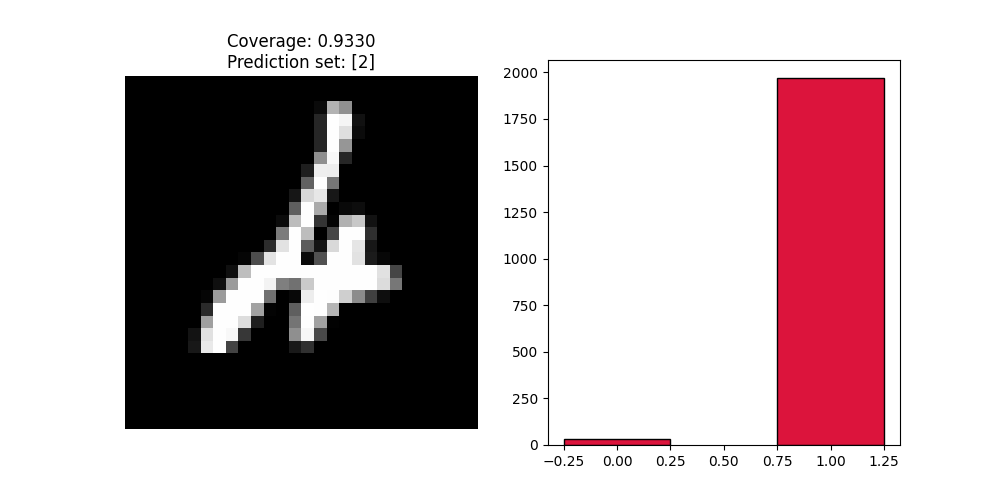
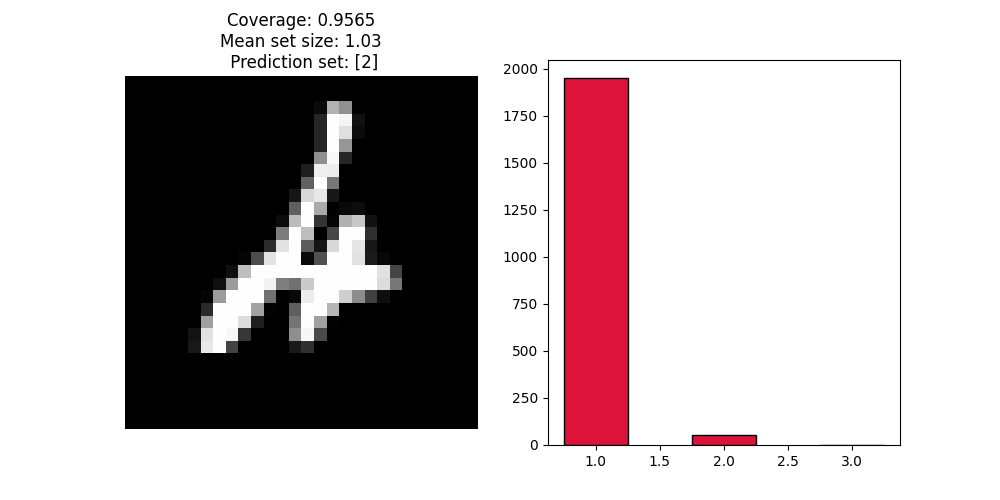
fix graphs

diff --git a/conformalprediction.py b/conformalprediction.py
@@ -13,8 +13,8 @@ M = 2000 #test
 n = 3000
 alpha = 0.05
 
-model = classifier2.Net()
-model.load_state_dict(torch.load("models/mnist_good.pth"))
+model = classifier1.Net()
+model.load_state_dict(torch.load("models/mnist_bad.pth"))
 model.eval()
 
 data = MNIST(
